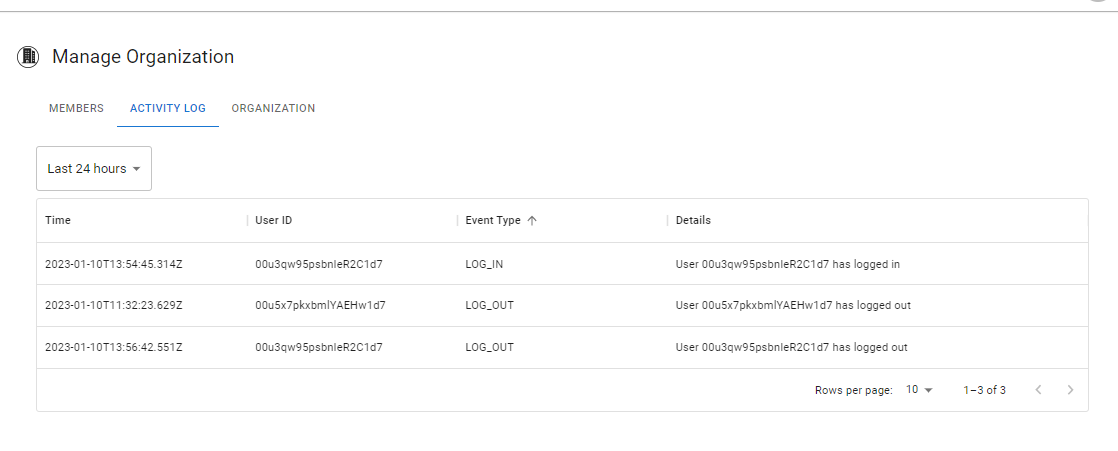
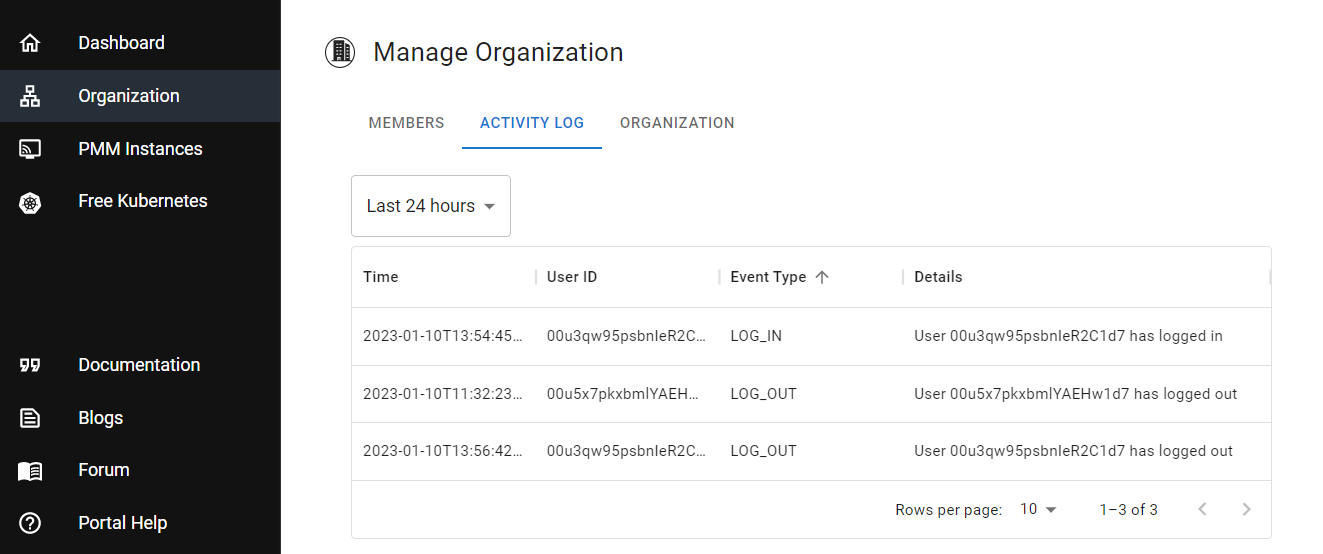
updated SS

diff --git a/docs/rel-notes/january-2023.md b/docs/rel-notes/january-2023.md
@@ -15,3 +15,5 @@ Currently, the following activity is being recorded:
 - user activity
 
 Activity log events are available for the last year. Future updates will enable you to check older logs and expose additional data.
+
+![Activity Logging](../images/activity_logging.png)
